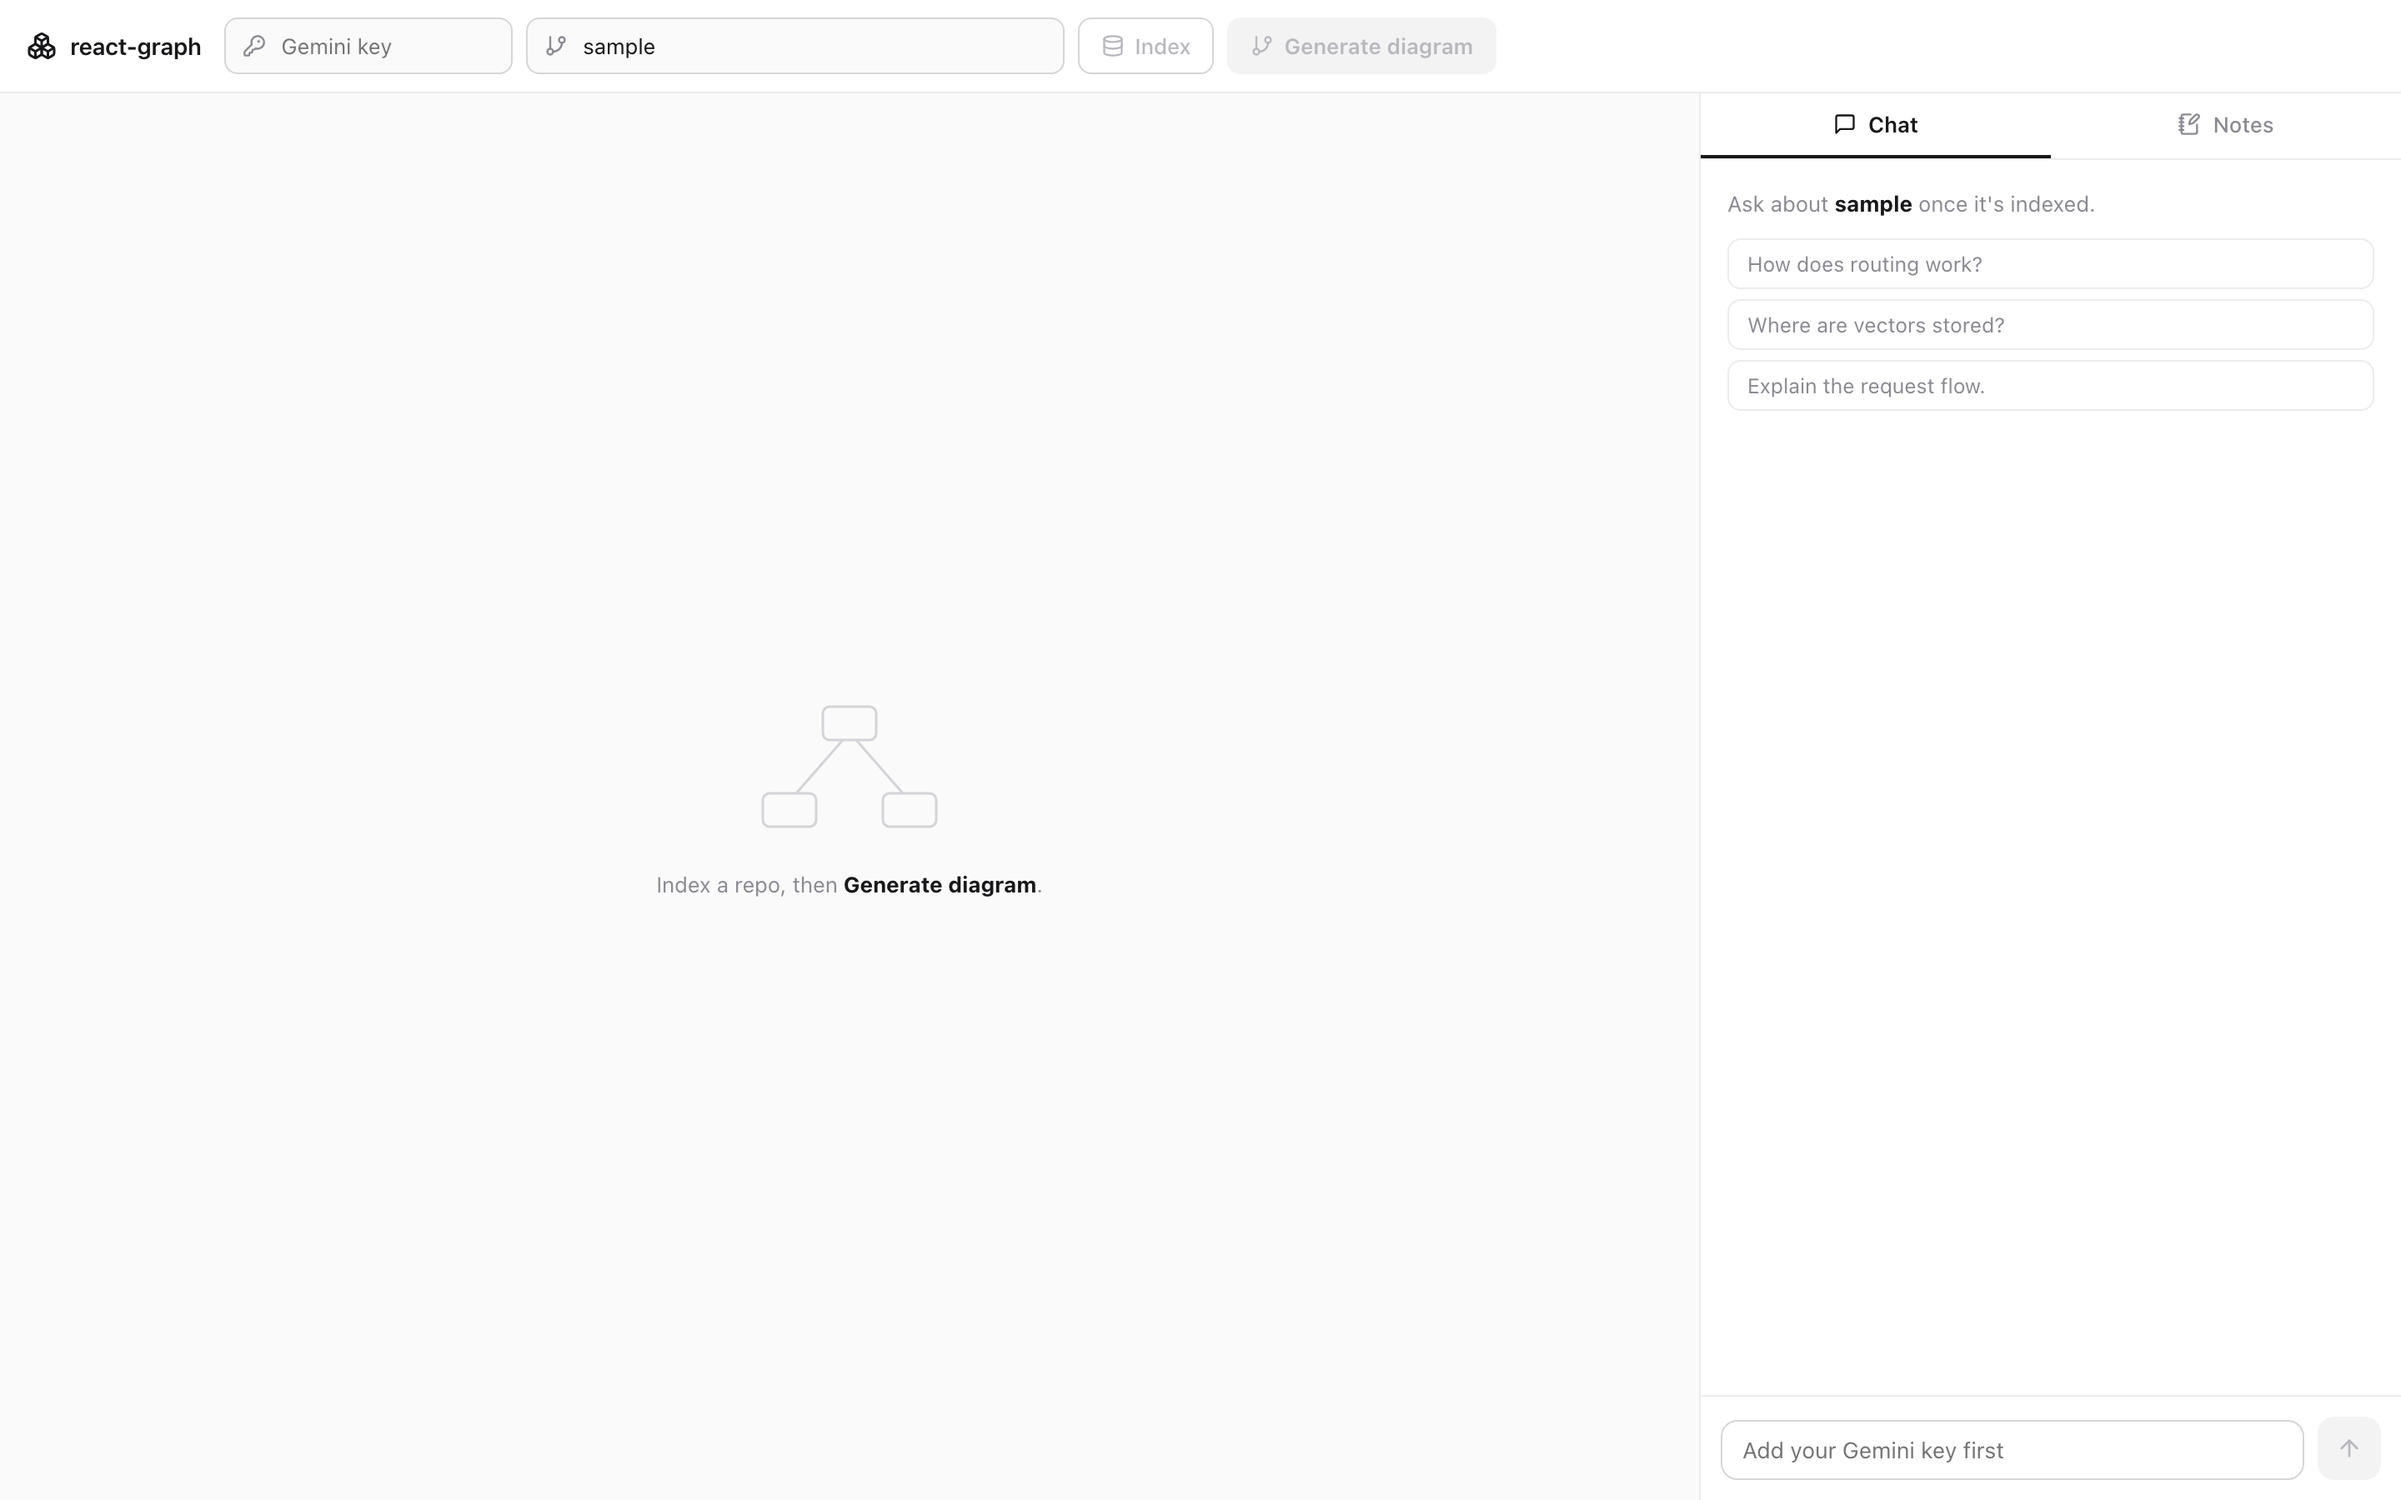
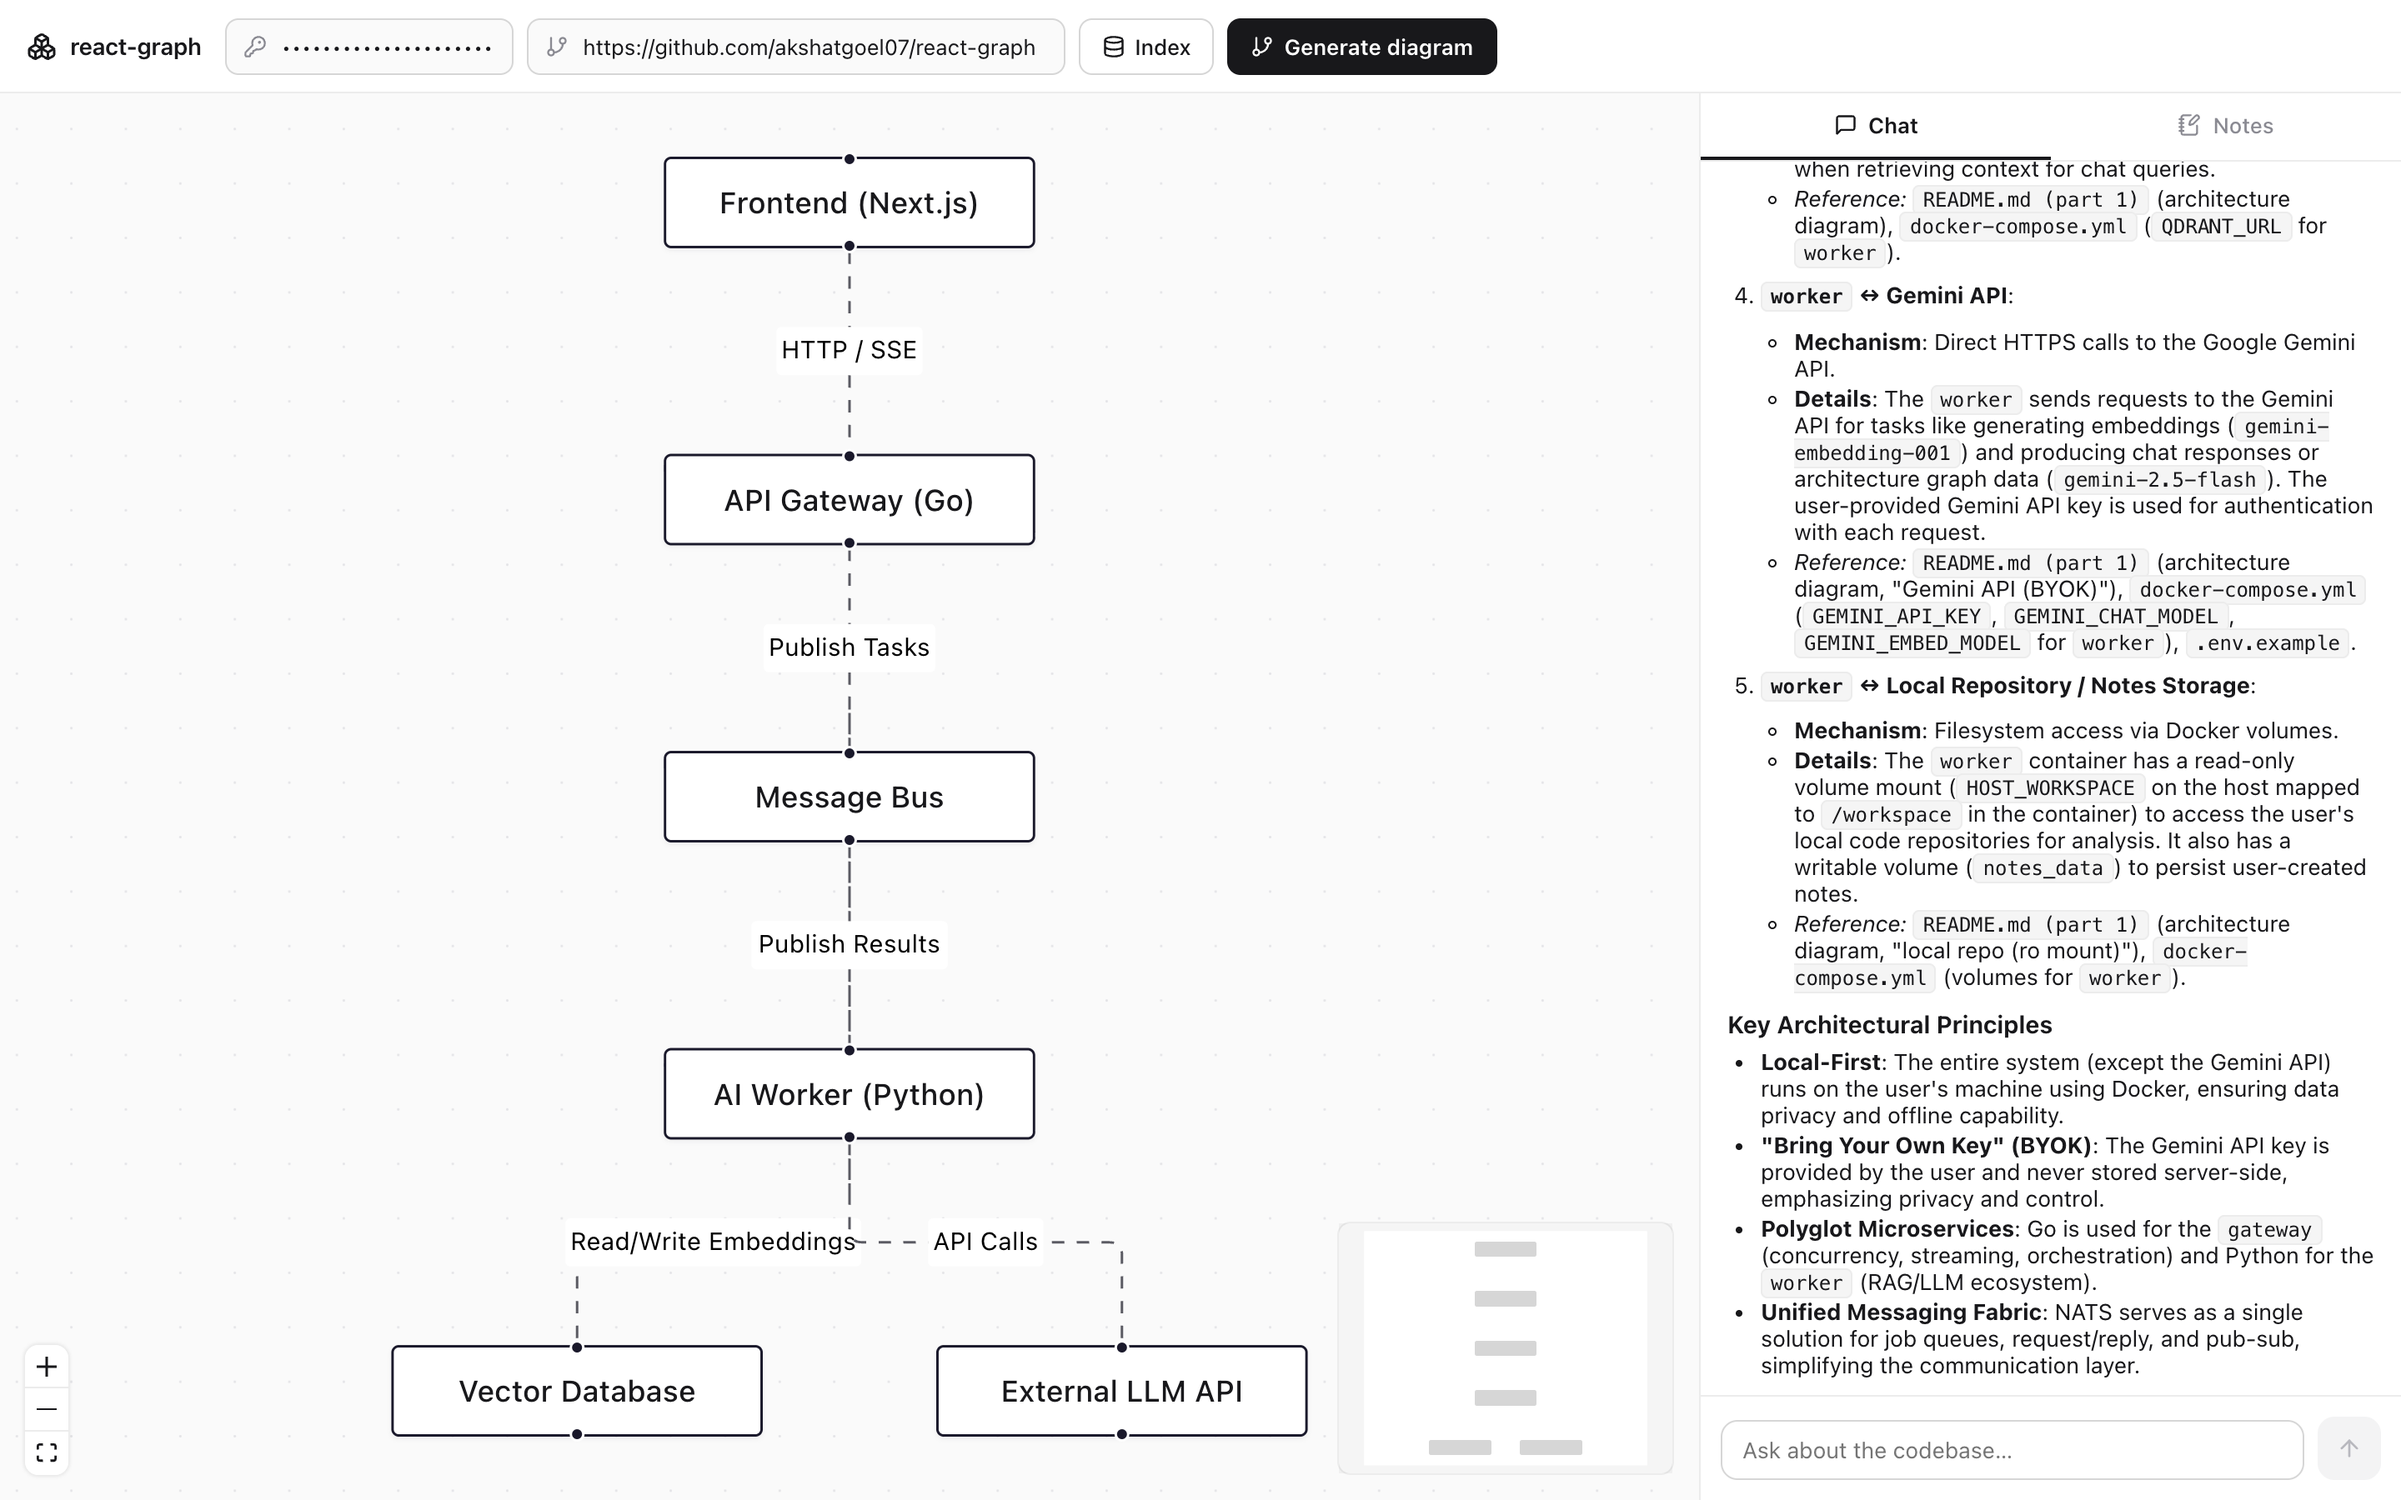
docs: use a populated hero screenshot (react-graph analyzing itself)
Replace the empty-state README image with a live capture of react-graph
pointed at its own public repo: the generated architecture diagram
(Frontend → Gateway → Message Bus → Worker → Vector DB / LLM API) on the
left, and a grounded markdown chat answer on the right.

Captured via headless Chrome driving the real UI (clone-by-URL flow + the
existing partial index).

diff --git a/README.md b/README.md
@@ -13,7 +13,9 @@ your own machine in Docker.
 This is a ground-up rewrite of the original GitHub-coupled prototype. GitHub is
 gone: source comes straight from the local filesystem.
 
-![react-graph — graph canvas on the left, chat & notes on the right](docs/home.png)
+![react-graph analyzing its own repo — architecture diagram on the left, grounded chat on the right](docs/home.png)
+
+<sub>Above: react-graph pointed at its own public repo — the generated architecture diagram (left) and a grounded chat answer (right).</sub>
 
 ---
 
